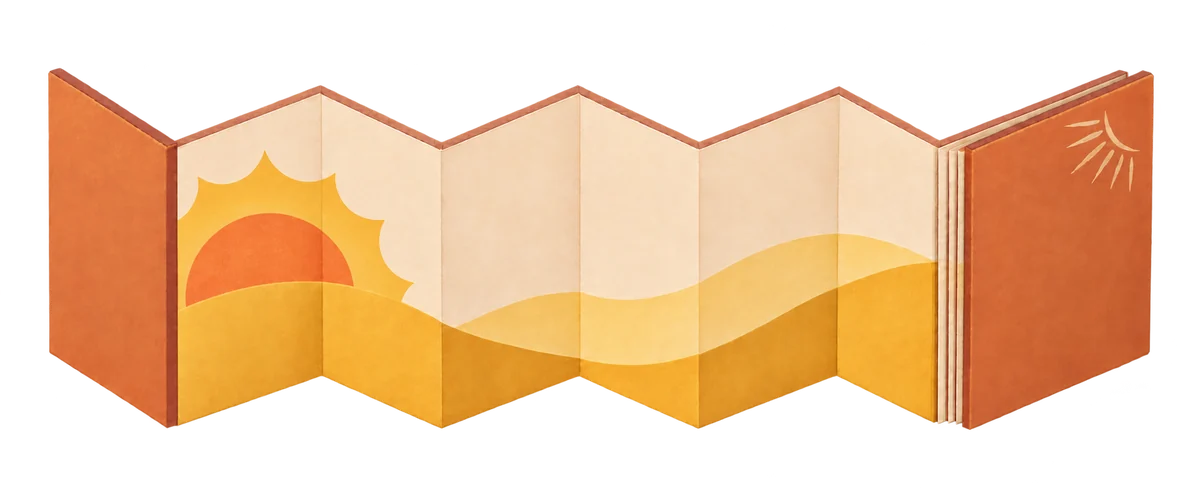
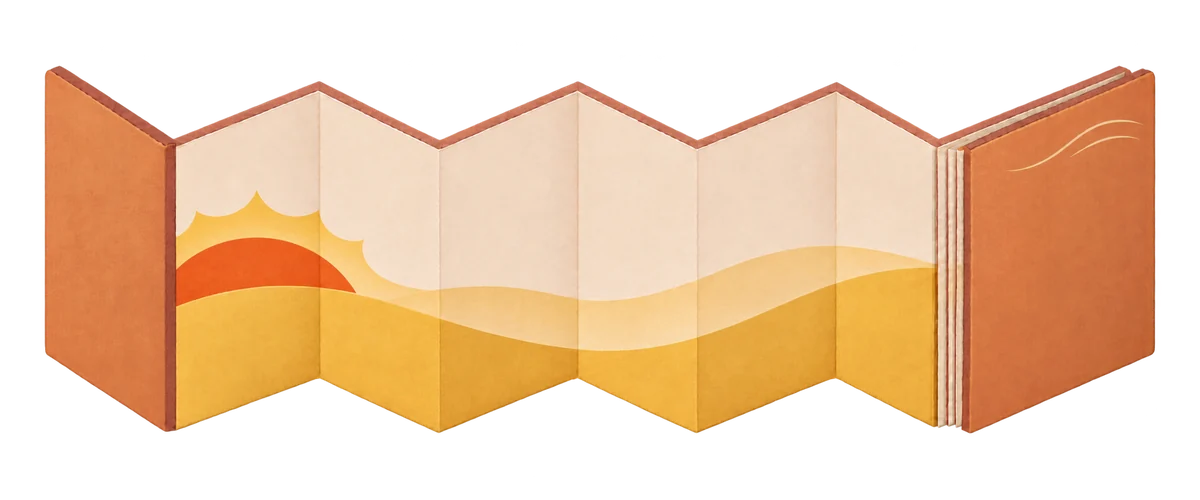
style(home): 调整妙压折页书的落日与山线构图

diff --git a/docs/dev-log/v1.0-dev.15.md b/docs/dev-log/v1.0-dev.15.md
@@ -2,7 +2,7 @@
 
 ## 当前摘要
 
-- [首页妙替与妙压卡面重绘](#首页妙替与妙压卡面重绘)保留已认可的妙替纸蝶。妙压采用用户选中的横向折页书，山后橙日带连续金色光晕，右端书页紧叠，待看稿。
+- [首页妙替与妙压卡面重绘](#首页妙替与妙压卡面重绘)保留已认可的妙替纸蝶。妙压横版已重排日光与山线，左页低日贴边，右封细线呼应山势，待看稿。
 
 - 星潮任务分支 `codex/github-tech-radar` 源自本机 dev `c06ed41`，包含 PR #5 合入记录 `c7d391f`。用户批准复验通过后经 PR 合入 GitHub `dev`，见[合入前复验](#合入-dev-前复验)。
 - [阶段方案](../plans/github-tech-radar.md)已归档。用户确认日榜、中文 AI 解读、历史阅读、公开只读、仅屋主更新、月预算人民币 10 元以内，以及 S1～S4 全部推荐项；自动与手动复用流程，后端先行。
@@ -66,6 +66,8 @@
 本轮 `npm run build`、`npm run lint:check` 和组件 Prettier 检查通过。Chrome 在本机 5199 核对了 320、375、760、761、999、1000、1280、1440px 的新版资源、题签与入口间距和换列，无横向溢出。已目视核对手机卡面和桌面画廊中的日光、末端折页，键盘进入妙替、鼠标进入妙压、后退、分类与搜索均通过。待用户确认新版观感。
 
 **11 月 23 日太阳光晕。** 根据用户提供的示意图，将五笔短光芒改为贴着杏橙太阳的整片金色光晕，外缘用几段凹弧相连，下沿由山脊遮住。按后续反馈缩小橙色日芯，加宽金色光晕。沿用横版折页书的印刷纸纹与紧叠书口，仅更新 1200×500 透明 WebP。本轮 `npm run lint:check` 通过，最终图片经 `npm run build` 及 Chrome 复验。5199 预览在 320～1440px 的八个宽度换列正常，桌面与手机截图中金色光晕可辨。入口、返回、搜索与分类通过，待用户评看。
+
+**11 月 23 日横版山景构图。** 用户希望橙日贴左页边，并以整体协调决定露出的圆弧。将太阳藏低，给金色光晕与折页顶端之间留出纸色。前后两层山线横贯书页，向右收进书口，用两笔封面细线呼应山势。仅替换同规格透明 WebP。执行 `npm run build` 与 `npm run lint:check` 通过。Chrome 在 5199 实测 320～1440px 八档宽度的换列、题签及入口，复验分类、搜索、进入工具和返回。已目视核对桌面画廊、手机卡面的日弧贴边与光晕留白，待用户看稿。
 
 ## 合入 dev 前复验
 

diff --git a/DEV_LOG.md b/DEV_LOG.md
@@ -2,7 +2,7 @@
 
 更新时间：2026-11-23（Asia/Shanghai）。**v1.0 开发中。**
 
-- 首页：[妙替纸蝶与妙压折页书](docs/dev-log/v1.0-dev.15.md#首页妙替与妙压卡面重绘)。妙替取景已确认。妙压暖黄横版已按参考图补上连片金色光晕，右端折页收紧；桌面和手机版已核对，本机 5199 可看稿。
+- 首页：[妙替纸蝶与妙压折页书](docs/dev-log/v1.0-dev.15.md#首页妙替与妙压卡面重绘)。妙替取景已确认。妙压横版以贴左页边的低日、跨页山线和紧叠书口组成全景；桌面和手机版已核对，本机 5199 可看稿。
 - 星潮：[星潮采集、生成与发布](docs/dev-log/v1.0-dev.15.md#工程收口与文章交接)完成本机阶段核对。11 月 21 日常规采集截图已有本期新稿，读者反馈正文难懂。[文章结构专项](docs/plans/startide-insight-quality.md#文章结构专项候选)留给后续独立分支。11 月 20 日下午断源的首个故障仍缺现场证据。
 - [前端技能](docs/operations/ui-ux-skill.md)保留正式版 v2.15.0。WSL 服务已恢复，原 Redis 启动检查通过，Docker 作为备用入口。
 - 集成：星潮通过[合入前复验](docs/dev-log/v1.0-dev.15.md#合入-dev-前复验)，用户授权任务分支经 PR 进入 GitHub `dev`。后续文章专项以集成后的 `dev` 为基线。
